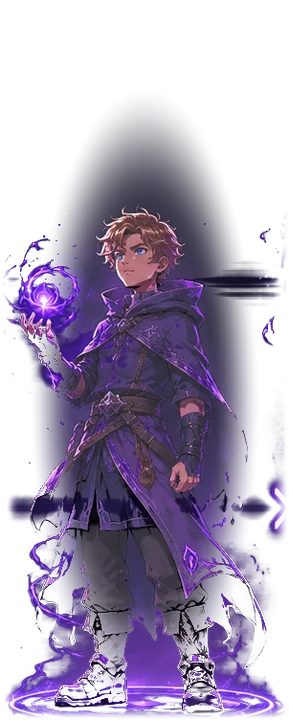
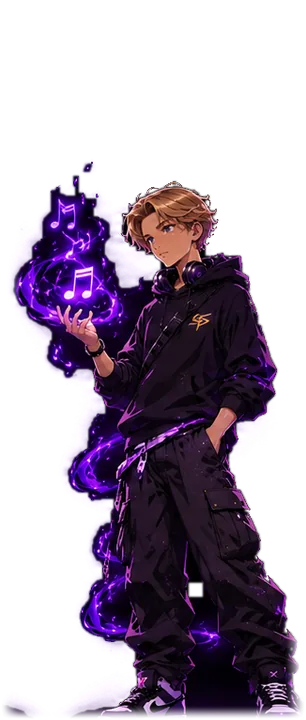
Byt Arkanmagikern mot Musikmagikern i fem steg
Den senaste karaktären får nya bilder: en musiktemad utveckling från
Nybörjare med en lysande ton i handen, via Lärling, Magiker (gitarr)
och Mästare (vinylskiva), till Legend vid keyboard i en storm av lila
musik. Formerna låses upp vid level 1, 6, 11, 16 och 21 som förut.

Den svarta bakgrunden är borttagen: figuren behålls hel, svarta och
dunkla bakgrundsytor blir genomskinliga och det lila skenet blir
genomskinligt i takt med sin ljusstyrka, så att det lyser mot appens
bakgrund utan svart ram. Id:t arcane behålls så att sparade val står
kvar.

Claude-Session: https://claude.ai/code/session_01ApGx7EXeMVMvx9TPSQE2Rf

diff --git a/src/arcane-character.js b/src/arcane-character.js
@@ -1,17 +1,17 @@
-// The Arcane mage: a selectable character drawn from one five-step illustration (src/arcane), from a
-// little boy with a spark of purple magic to a legend wrapped in arcane storm. Like the other characters,
-// a new form unlocks every five levels: level 1, 6, 11, 16 and 21. Each form is cut from the same height,
-// so the boy is small and grows. The pictures fade out at the edges into the app's background; the
-// character breathes and purple sparks rise from form 2 (CSS shared with the hero character).
+// The Music mage (id 'arcane', kept so saved choices stay): a selectable character drawn from one five-step
+// illustration (src/arcane), from a beginner with a glowing note in his hand to a legend at a keyboard in a storm
+// of purple music. Like the other characters, a new form unlocks every five levels: level 1, 6, 11, 16 and 21.
+// Each form is cut from the same height, so the boy is small and grows. The black background fades out into the
+// app's background; the character breathes and purple sparks rise from form 2 (CSS shared with the hero character).
 import {heroForm} from './hero-character.js';
 
 export const ARCANE_ID = 'arcane';
 // [level, name] of each form, as written under the illustration.
-export const arcaneForms = [[1, 'Knatte'], [6, 'Lärling'], [11, 'Magiker'], [16, 'Mästare'], [21, 'Legend']];
+export const arcaneForms = [[1, 'Nybörjare'], [6, 'Lärling'], [11, 'Magiker'], [16, 'Mästare'], [21, 'Legend']];
 export const arcaneForm = heroForm;
 
 // Picture size of each form (src/arcane/lvN.webp).
-const pictures = {1: [304, 720], 2: [289, 720], 3: [314, 720], 4: [314, 720], 5: [429, 720]};
+const pictures = {1: [261, 720], 2: [306, 720], 3: [311, 720], 4: [344, 720], 5: [445, 720]};
 let seq = 0;
 
 export function arcaneCharacter(level = 1, large = false) {

diff --git a/src/fitness.js b/src/fitness.js
@@ -9,7 +9,7 @@ export const characters=[
  {id:'scholar',name:'Lunar Scholar',role:'Tänkaren',motto:'Var nyfiken en stund till.',description:'Läsning, vetenskap och stora frågor. Samla insikter, inte bara poäng.',color:'#cbbce8',symbol:'book'},
  {id:'adrian',name:'Adrian',role:'Den gränslösa',motto:'Bortom dig själv finns ingen gräns.',description:'Börjar som sig själv. Varje form bär mer kraft än den förra.',color:'#8fc4ff',symbol:'star'},
  {id:'frost',name:'Frostmagikern',role:'Den växande',motto:'Varje dag lite starkare.',description:'Börjar som en liten knatte med en trollstav och växer till en magiker med makt över is och storm. En ny form låses upp vid level 6, 11, 16 och 21.',color:'#9fd8ff',symbol:'snow',forms:frostForms},
- {id:'arcane',name:'Arkanmagikern',role:'Den uppvaknande',motto:'Kraften växer med varje steg.',description:'Börjar som en knatte med en gnista av lila magi och växer till en legend omsvept av arkan storm. En ny form låses upp vid level 6, 11, 16 och 21.',color:'#b58cff',symbol:'star',forms:arcaneForms}
+ {id:'arcane',name:'Musikmagikern',role:'Den rytmiska',motto:'Varje ton tar dig längre.',description:'Börjar som nybörjare med en lysande ton i handen och växer till en legend som styr musiken med lila magi. En ny form låses upp vid level 6, 11, 16 och 21.',color:'#b58cff',symbol:'music',forms:arcaneForms}
 ];
 export const ranks=[
  {name:'Rookie',xp:0,color:'#a3b6ae',icon:'flag'},

diff --git a/src/i18n-en.js b/src/i18n-en.js
@@ -2882,4 +2882,10 @@ export default {
  "Vänförfrågan skickad": "Friend request sent",
  "Du kan inte lägga till dig själv.": "You can't add yourself.",
  "Ni är inte i samma squad. Använd vänkoden i stället.": "You are not in the same squad. Use the friend code instead.",
+ "Musikmagikern": "The Music Mage",
+ "Välj Musikmagikern": "Choose the Music Mage",
+ "Den rytmiska": "The Rhythmic One",
+ "Varje ton tar dig längre.": "Every note takes you further.",
+ "Börjar som nybörjare med en lysande ton i handen och växer till en legend som styr musiken med lila magi. En ny form låses upp vid level 6, 11, 16 och 21.": "Starts as a beginner with a glowing note in his hand and grows into a legend who commands music with purple magic. A new form unlocks at level 6, 11, 16 and 21.",
+ "Nybörjare": "Beginner",
 };
